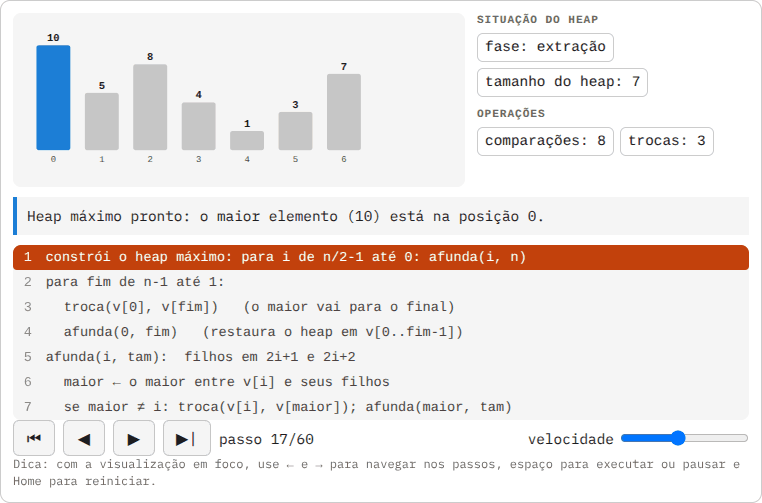
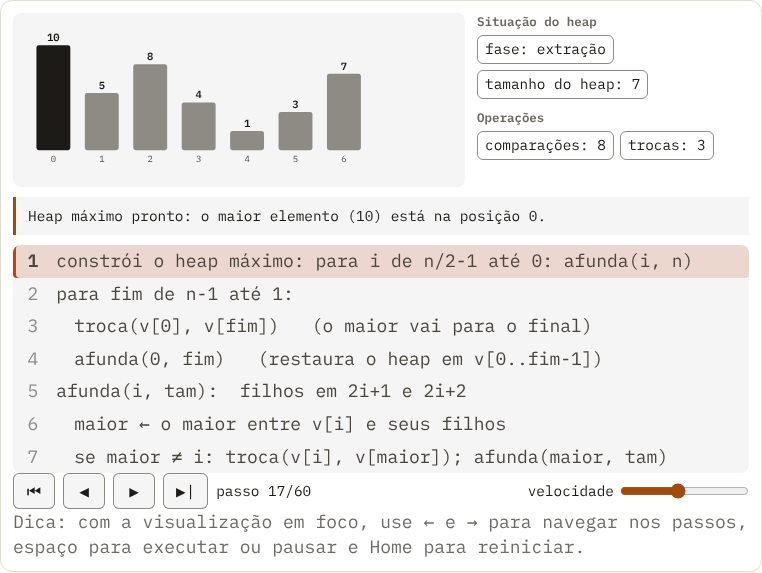
docs: atualizar prints do README e a cor do badge
Os prints mostravam um design antigo (sem o terminal do hero). Agora vêm do
site atual, e o badge usa o novo laranja (#A34A07).

diff --git a/README.md b/README.md
@@ -10,7 +10,7 @@
 </p>
 
 <p align="center">
-  <a href="https://thallesgsrv.github.io/Big-O-Library/"><img src="https://img.shields.io/badge/Acessar_o_site-thallesgsrv.github.io-B45309?style=for-the-badge" alt="Acessar o site"></a>
+  <a href="https://thallesgsrv.github.io/Big-O-Library/"><img src="https://img.shields.io/badge/Acessar_o_site-thallesgsrv.github.io-A34A07?style=for-the-badge" alt="Acessar o site"></a>
 </p>
 
 <p align="center">
